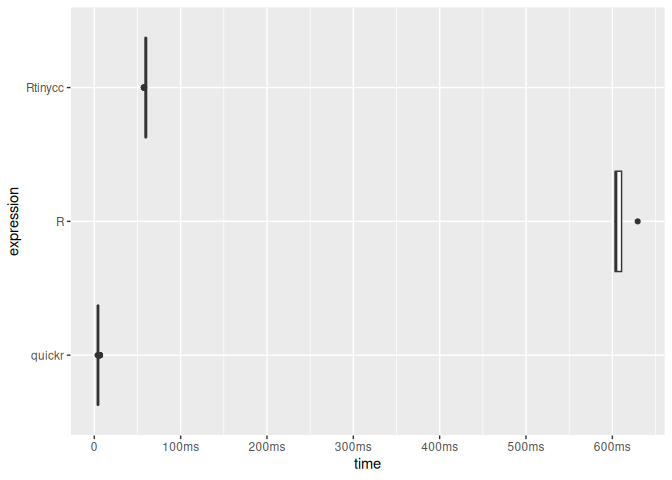
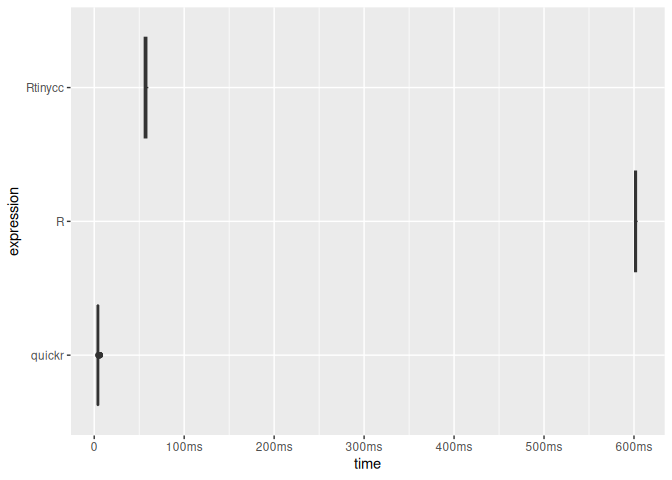
threads

diff --git a/README.md b/README.md
@@ -191,7 +191,7 @@ tcc_read_cstring(ptr)
 tcc_read_bytes(ptr, 5)
 #> [1] 68 65 6c 6c 6f
 tcc_ptr_addr(ptr, hex = TRUE)
-#> [1] "0x5f94cdd8ea80"
+#> [1] "0x63a070f8f650"
 tcc_ptr_is_null(ptr)
 #> [1] FALSE
 tcc_free(ptr)
@@ -222,11 +222,11 @@ through output parameters.
 ptr_ref <- tcc_malloc(.Machine$sizeof.pointer %||% 8L)
 target <- tcc_malloc(8)
 tcc_ptr_set(ptr_ref, target)
-#> <pointer: 0x5f94cffe8bf0>
+#> <pointer: 0x63a073ba0490>
 tcc_data_ptr(ptr_ref)
-#> <pointer: 0x5f94cf74fa20>
+#> <pointer: 0x63a070ff06b0>
 tcc_ptr_set(ptr_ref, tcc_null_ptr())
-#> <pointer: 0x5f94cffe8bf0>
+#> <pointer: 0x63a073ba0490>
 tcc_free(target)
 #> NULL
 tcc_free(ptr_ref)
@@ -289,8 +289,8 @@ bench::mark(
 #> # A tibble: 2 × 6
 #>   expression      min   median `itr/sec` mem_alloc `gc/sec`
 #>   <bch:expr> <bch:tm> <bch:tm>     <dbl> <bch:byt>    <dbl>
-#> 1 Rtinycc      33.1ms   60.5ms      17.0   53.98KB     22.7
-#> 2 Rbuiltin    564.3µs  612.5µs    1548.     9.05KB     28.0
+#> 1 Rtinycc      28.8ms   30.5ms      26.2   53.98KB     33.6
+#> 2 Rbuiltin    549.6µs  586.9µs    1598.     9.05KB     28.0
 
 # For performance-sensitive code, move the loop into C and operate on arrays.
 ffi_vec <- tcc_ffi() |>
@@ -319,8 +319,8 @@ bench::mark(
 #> # A tibble: 2 × 6
 #>   expression        min   median `itr/sec` mem_alloc `gc/sec`
 #>   <bch:expr>   <bch:tm> <bch:tm>     <dbl> <bch:byt>    <dbl>
-#> 1 Rtinycc_vec    20.2µs   20.6µs    44908.    39.1KB     31.5
-#> 2 Rbuiltin_vec   16.9µs   17.6µs    56156.    78.2KB     78.7
+#> 1 Rtinycc_vec    20.1µs   20.7µs    43997.    39.1KB     30.8
+#> 2 Rbuiltin_vec     17µs   17.7µs    54677.    78.2KB     76.7
 ```
 
 ### Linking external libraries
@@ -383,7 +383,7 @@ ffi <- tcc_ffi() |>
 
 x <- as.integer(1:100) # to avoid ALTREP
 .Internal(inspect(x))
-#> @5f94d29ac548 13 INTSXP g0c0 [REF(65535)]  1 : 100 (compact)
+#> @63a0750a4a70 13 INTSXP g0c0 [REF(65535)]  1 : 100 (compact)
 ffi$sum_array(x, length(x))
 #> [1] 5050
 
@@ -399,7 +399,7 @@ y[1]
 #> [1] 11
 
 .Internal(inspect(x))
-#> @5f94d29ac548 13 INTSXP g0c0 [REF(65535)]  11 : 110 (expanded)
+#> @63a0750a4a70 13 INTSXP g0c0 [REF(65535)]  11 : 110 (expanded)
 ```
 
 ### Benchmark
@@ -463,9 +463,9 @@ timings
 #> # A tibble: 3 × 6
 #>   expression      min   median `itr/sec` mem_alloc `gc/sec`
 #>   <bch:expr> <bch:tm> <bch:tm>     <dbl> <bch:byt>    <dbl>
-#> 1 R           602.1ms  602.1ms      1.66     847KB     4.98
-#> 2 quickr       3.78ms   4.29ms    233.       782KB     4.10
-#> 3 Rtinycc     57.39ms  59.75ms     16.9      782KB     0
+#> 1 R           601.1ms 601.07ms      1.66     847KB    4.99 
+#> 2 quickr        3.7ms   4.11ms    243.       782KB    4.09 
+#> 3 Rtinycc      55.3ms  57.26ms     17.5      782KB    0.513
 plot(timings, type = "boxplot") + bench::scale_x_bench_time(base = NULL)
 ```
 
@@ -493,15 +493,15 @@ ffi <- tcc_ffi() |>
 
 p1 <- ffi$struct_point_new()
 ffi$struct_point_set_x(p1, 0.0)
-#> <pointer: 0x5f94d42573e0>
+#> <pointer: 0x63a081375040>
 ffi$struct_point_set_y(p1, 0.0)
-#> <pointer: 0x5f94d42573e0>
+#> <pointer: 0x63a081375040>
 
 p2 <- ffi$struct_point_new()
 ffi$struct_point_set_x(p2, 3.0)
-#> <pointer: 0x5f94cdeab220>
+#> <pointer: 0x63a0802cda90>
 ffi$struct_point_set_y(p2, 4.0)
-#> <pointer: 0x5f94cdeab220>
+#> <pointer: 0x63a0802cda90>
 
 ffi$distance(p1, p2)
 #> [1] 5
@@ -546,9 +546,9 @@ ffi <- tcc_ffi() |>
 
 s <- ffi$struct_flags_new()
 ffi$struct_flags_set_active(s, 1L)
-#> <pointer: 0x5f94d1bea2f0>
+#> <pointer: 0x63a0811744c0>
 ffi$struct_flags_set_level(s, 9L)
-#> <pointer: 0x5f94d1bea2f0>
+#> <pointer: 0x63a0811744c0>
 ffi$struct_flags_get_active(s)
 #> [1] 1
 ffi$struct_flags_get_level(s)
@@ -678,6 +678,7 @@ code_async <- '
 #else
 #include <pthread.h>
 #endif
+#include <stdlib.h>
 
 struct task { void (*cb)(void* ctx, int); void* ctx; int value; };
 
@@ -685,31 +686,56 @@ struct task { void (*cb)(void* ctx, int); void* ctx; int value; };
 static DWORD WINAPI worker(LPVOID data) {
   struct task* t = (struct task*) data;
   t->cb(t->ctx, t->value);
+  free(t);
   return 0;
 }
 #else
 static void* worker(void* data) {
   struct task* t = (struct task*) data;
   t->cb(t->ctx, t->value);
+  free(t);
   return NULL;
 }
 #endif
 
-int spawn_async(void (*cb)(void* ctx, int), void* ctx, int value) {
-  if (!cb || !ctx) return -1;
-  struct task t;
-  t.cb = cb;
-  t.ctx = ctx;
-  t.value = value;
+int spawn_async_many(void (*cb)(void* ctx, int), void* ctx, int value, int n) {
+  if (!cb || !ctx || n < 0) return -1;
 #ifdef _WIN32
-  HANDLE th = CreateThread(NULL, 0, worker, &t, 0, NULL);
-  if (!th) return -2;
-  WaitForSingleObject(th, INFINITE);
-  CloseHandle(th);
+  HANDLE* th = (HANDLE*) calloc((size_t)n, sizeof(HANDLE));
+  if (!th) return -3;
+  for (int i = 0; i < n; i++) {
+    struct task* t = (struct task*) malloc(sizeof(struct task));
+    if (!t) { free(th); return -3; }
+    t->cb = cb;
+    t->ctx = ctx;
+    t->value = value;
+    th[i] = CreateThread(NULL, 0, worker, t, 0, NULL);
+    if (!th[i]) { free(t); free(th); return -2; }
+  }
+  for (int i = 0; i < n; i++) {
+    WaitForSingleObject(th[i], INFINITE);
+    CloseHandle(th[i]);
+  }
+  free(th);
 #else
-  pthread_t th;
-  if (pthread_create(&th, NULL, worker, &t) != 0) return -2;
-  pthread_join(th, NULL);
+  pthread_t* th = (pthread_t*) calloc((size_t)n, sizeof(pthread_t));
+  if (!th) return -3;
+  for (int i = 0; i < n; i++) {
+    struct task* t = (struct task*) malloc(sizeof(struct task));
+    if (!t) { free(th); return -3; }
+    t->cb = cb;
+    t->ctx = ctx;
+    t->value = value;
+    if (pthread_create(&th[i], NULL, worker, t) != 0) {
+      free(t);
+      free(th);
+      return -2;
+    }
+  }
+  for (int i = 0; i < n; i++) {
+    pthread_join(th[i], NULL);
+  }
+  free(th);
 #endif
   return 0;
 }
@@ -723,21 +749,30 @@ if (.Platform$OS.type != "windows") {
 }
 ffi_async <- ffi_async |>
   tcc_bind(
-    spawn_async = list(
-      args = list("callback_async:void(int)", "ptr", "i32"),
+    spawn_async_many = list(
+      args = list("callback_async:void(int)", "ptr", "i32", "i32"),
       returns = "i32"
     )
   ) |>
   tcc_compile()
 
-ffi_async$spawn_async(cb_async, tcc_callback_ptr(cb_async), 2L)
-#> [1] 0
-deadline <- Sys.time() + 1
-while (hits < 2L && Sys.time() < deadline) {
+n_calls <- 200L
+cb_ptr_async <- tcc_callback_ptr(cb_async)
+rc <- ffi_async$spawn_async_many(cb_async, cb_ptr_async, 1L, n_calls)
+
+deadline <- Sys.time() + 3
+while (hits < n_calls && Sys.time() < deadline) {
   Sys.sleep(0.01)
 }
-hits
-#> [1] 2
+list(ok = isTRUE(rc == 0L), hits = hits, expected = n_calls)
+#> $ok
+#> [1] TRUE
+#> 
+#> $hits
+#> [1] 200
+#> 
+#> $expected
+#> [1] 200
 tcc_callback_close(cb_async)
 ```
 
@@ -892,7 +927,7 @@ ffi <- tcc_ffi() |>
   tcc_compile()
 
 ffi$struct_point_new()
-#> <pointer: 0x5f94d35e18a0>
+#> <pointer: 0x63a080689250>
 ffi$enum_status_OK()
 #> [1] 0
 ffi$global_global_counter_get()
@@ -945,11 +980,11 @@ ffi <- tcc_ffi() |>
 o <- ffi$struct_outer_new()
 i <- ffi$struct_inner_new()
 ffi$struct_inner_set_a(i, 42L)
-#> <pointer: 0x5f94cd1a6c00>
+#> <pointer: 0x63a0715b2b30>
 
 # Write the inner pointer into the outer struct
 ffi$struct_outer_in_addr(o) |> tcc_ptr_set(i)
-#> <pointer: 0x5f94d347d5b0>
+#> <pointer: 0x63a072a19f80>
 
 # Read it back through indirection
 ffi$struct_outer_in_addr(o) |>
@@ -978,9 +1013,9 @@ ffi <- tcc_ffi() |>
 
 b <- ffi$struct_buf_new()
 ffi$struct_buf_set_data_elt(b, 0L, 0xCAL)
-#> <pointer: 0x5f94d1ec44f0>
+#> <pointer: 0x63a07fe89b20>
 ffi$struct_buf_set_data_elt(b, 1L, 0xFEL)
-#> <pointer: 0x5f94d1ec44f0>
+#> <pointer: 0x63a07fe89b20>
 ffi$struct_buf_get_data_elt(b, 0L)
 #> [1] 202
 ffi$struct_buf_get_data_elt(b, 1L)
